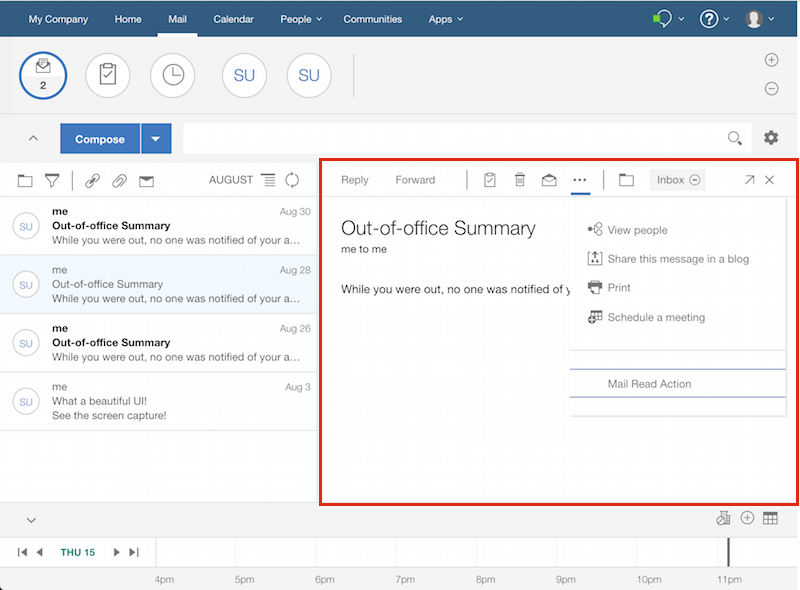
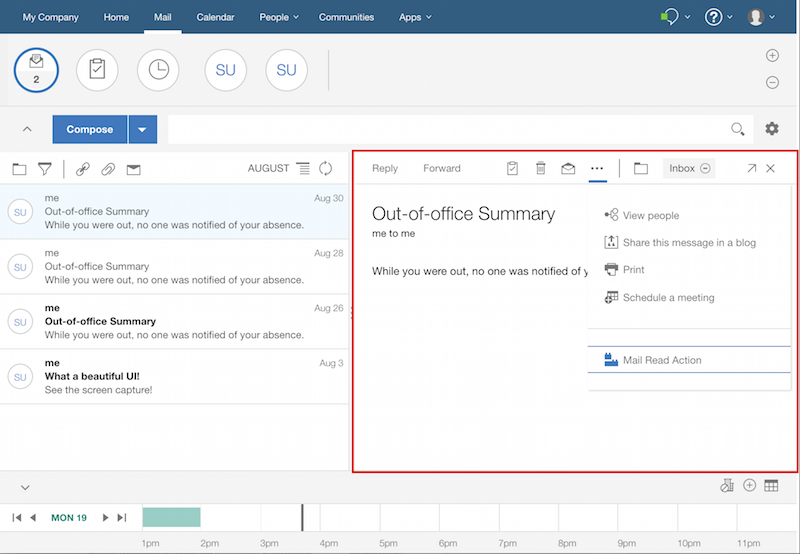
243583: check in tutorial change following adding sag

diff --git a/_tutorials/tutorial_verse_developer.md b/_tutorials/tutorial_verse_developer.md
@@ -159,7 +159,9 @@ In this section, you will add a new Application which consists of one Extension 
           "type": "com.ibm.verse.action",
           "ext_id": "com.ibm.verse.action.sample.mailCompose",
           "name": "Mail Compose Action Sample",
-          "payload": {},
+          "payload": {
+            "svg": "<svg xmlns='http://www.w3.org/2000/svg' viewBox='0 0 16 16'><path d='M15 10V8h-2v2h-2V8H9v2H0v6h16v-6zM8 2H7V0H5v2H3V0H1v2H0v6h8z'/></svg>"
+          },
           "path": "mail.compose",
           "title": "Mail Compose Action"
         }
@@ -212,7 +214,11 @@ You might have noticed that some of the properties in the newly added Applicatio
 
 Under `extensions`, instead of using `object: "person"`, our new Application uses `path: "mail.compose"`. This indicates the action button should be located in the Mail Compose View. You might wonder, why would we use the key `object` in our previous example for bizCard, but `path` here for the Mail Compose View. The reason is, for this example, we are writing an Extension for a particular UI view (Mail Compose View), while in the previous Extension, instead of extending a particular UI view, we are actually extending the __Person__ object, which manifests in Verse as a bizCard, and you can open a bizCard from some other places apart from the People Bubble.
 
-Under `payload`, we are still using `"features": ["core"]` to ask Verse to send context structure related to the Mail Compose View to the external Application via cross-document messaging.
+The key `payload` appears twice in the new code, once within the Extension definition, as a child of the `extensions` key; another time at the root of the Application definition.
+
+Under `payload` at the Extension level we have inserted an SVG, which shows up as an icon in the UI just before the __Mail Read Action__ title. The icon comes from the [IBM Design Icons public GitHub repository][17]{:target="_blank"} and has an open source license. Feel free to explore the repository to find an icon more suitable for your Application, or design your own. It is recommended to keep the styling consistent with the Verse UI thus we are not applying any extra styling on the icon and let it inherit its style from the Verse UI.
+
+Under `payload` at the Application level, we are still using `"features": ["core"]` to ask Verse to send context structure related to the Mail Compose View to the external Application via cross-document messaging.
 
 
 ---
@@ -232,7 +238,9 @@ In this section, you will add an action button to the Mail Read View that when c
       "type": "com.ibm.verse.action",
       "ext_id": "com.ibm.verse.action.sample.mailRead",
       "name": "Mail Read Action Sample",
-      "payload": {},
+      "payload": {
+        "svg": "<svg xmlns='http://www.w3.org/2000/svg' viewBox='0 0 16 16'><path d='M15 10V8h-2v2h-2V8H9v2H0v6h16v-6zM8 2H7V0H5v2H3V0H1v2H0v6h8z'/></svg>"
+      },
       "path": "mail.read",
       "title": "Mail Read Action"
     }
@@ -262,6 +270,8 @@ Congratulations! You have successfully added an action button to the Mail Read V
 In the previous section you learned how to add an Application containing one Extension to Verse by adding the new Application definition into the `applications` array in `applications.json`. In this section you learned how to add an additional Extension into this Application by adding the new Extension into the `extensions` array of the specific Application.
 
 The configuration differences between the new Mail Read Extension and the Mail Compose Extension previously added are slight. For example, in the Mail Read Extension the `path` property is set to `mail.read` rather than `mail.compose`. This indicates the action button should be located in the Mail Read View.
+
+For this Extension we are using the same SVG icon as the Mail Compose Extension. If you prefer to use a different icon just change the value for the `svg` key under `payload` within `extensions`.
 
 ---
 
@@ -334,7 +344,7 @@ Now you have learned how to register your Application with Verse, add action but
 6. [Registering an application in IBM Verse][9]{:target="_blank"}
 7. [Introduction to cross-document messaging][11]{:target="_blank"}
 8. [Tips for debugging][14]{:target="_blank"}
-
+9. [SVG][18]{:target="_blank"}
 
 
 [1]: https://chrome.google.com/webstore/detail/web-server-for-chrome/ofhbbkphhbklhfoeikjpcbhemlocgigb
@@ -353,3 +363,5 @@ Now you have learned how to register your Application with Verse, add action but
 [15]:{{site.verse-developer-chrome-ext}}/blob/gh-pages/samples/actions.html
 
 [16]:../reference/reference.html
+[17]:https://github.com/IBM-Design/icons
+[18]:https://developer.mozilla.org/en-US/docs/Web/SVG
